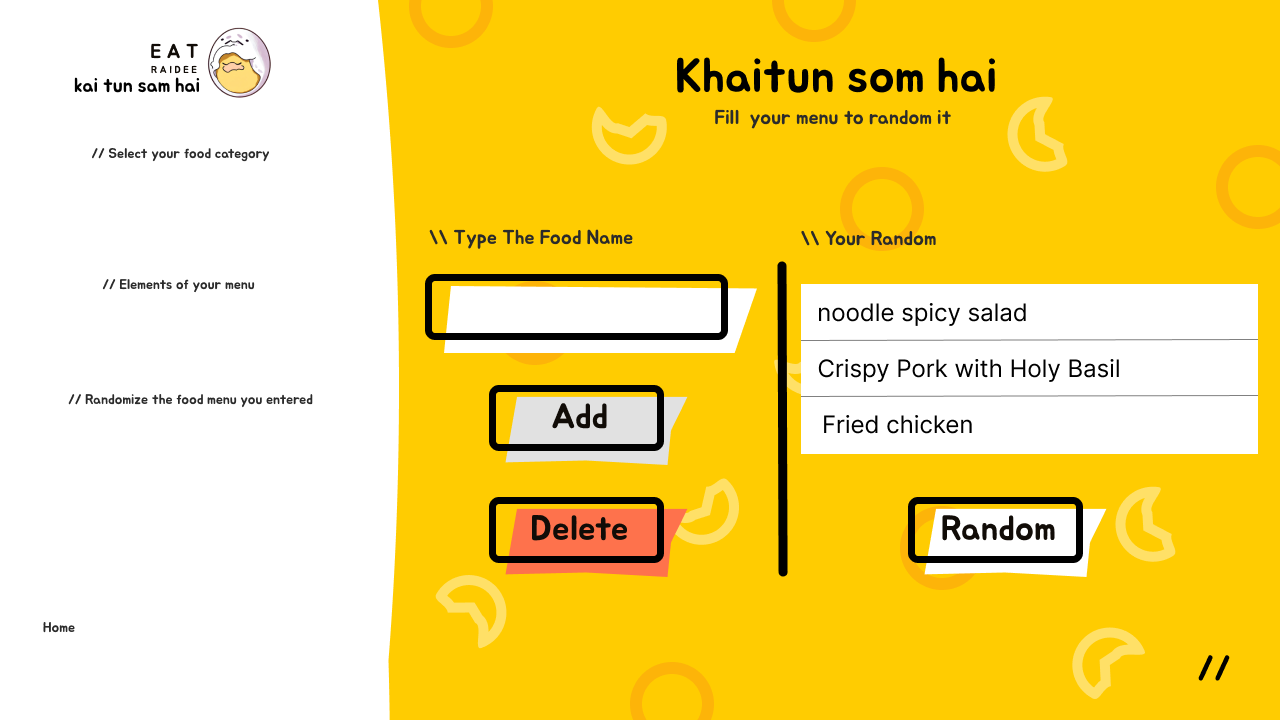
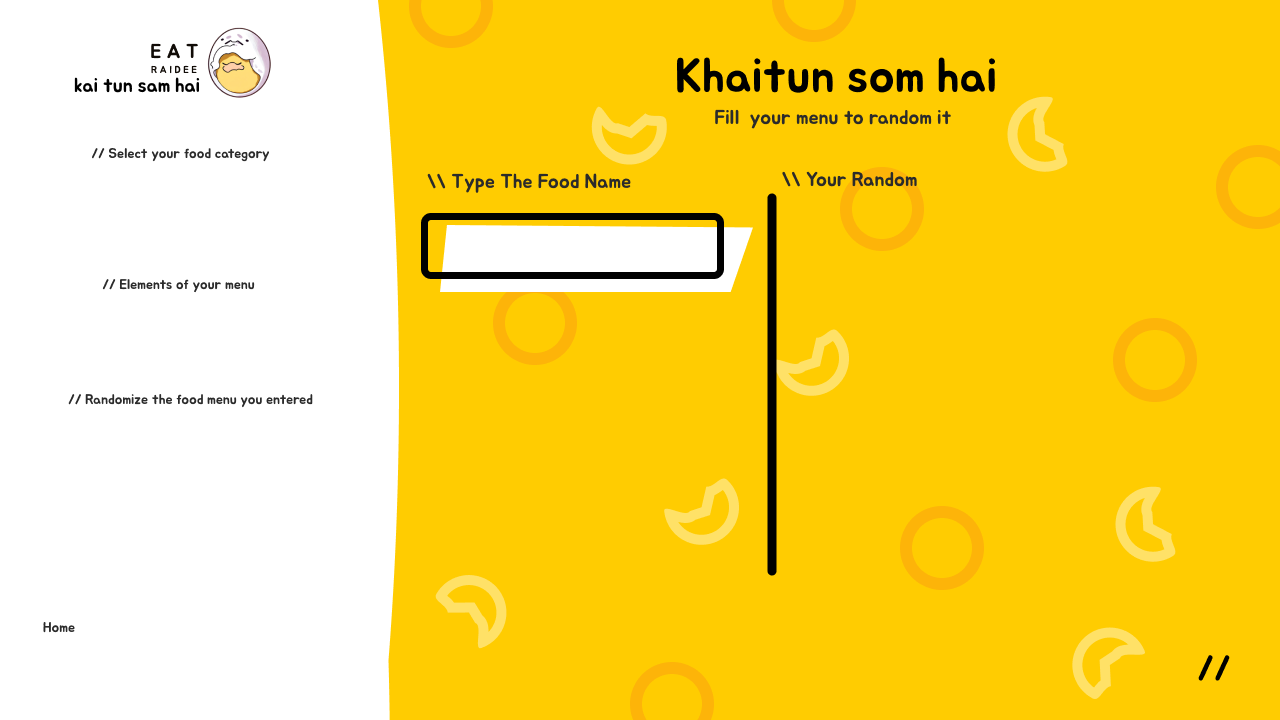
Update 10/12/2566 - MainSomHai       : fix ux ui a litle bit - SelectTypeFrame  :  add slect another elements

diff --git a/src/main/java/com/mycompany/project/MainSomHai.java b/src/main/java/com/mycompany/project/MainSomHai.java
@@ -33,6 +33,7 @@ public class MainSomHai extends javax.swing.JFrame {
         btnTunSom = new javax.swing.JButton();
         btnTunSafe = new javax.swing.JButton();
         btnHome = new javax.swing.JButton();
+        btnRandom = new javax.swing.JButton();
         jLabel1 = new javax.swing.JLabel();
 
         setDefaultCloseOperation(javax.swing.WindowConstants.EXIT_ON_CLOSE);
@@ -41,7 +42,7 @@ public class MainSomHai extends javax.swing.JFrame {
 
         txtFoodname.setBackground(new java.awt.Color(100, 100, 100));
         txtFoodname.setBorder(null);
-        getContentPane().add(txtFoodname, new org.netbeans.lib.awtextra.AbsoluteConstraints(452, 289, 280, 50));
+        getContentPane().add(txtFoodname, new org.netbeans.lib.awtextra.AbsoluteConstraints(450, 230, 260, 50));
 
         btnAdd.setIcon(new javax.swing.ImageIcon(getClass().getResource("/btnAdd_default.png"))); // NOI18N
         btnAdd.setBorder(null);
@@ -56,7 +57,7 @@ public class MainSomHai extends javax.swing.JFrame {
                 btnAddMouseExited(evt);
             }
         });
-        getContentPane().add(btnAdd, new org.netbeans.lib.awtextra.AbsoluteConstraints(490, 385, -1, -1));
+        getContentPane().add(btnAdd, new org.netbeans.lib.awtextra.AbsoluteConstraints(490, 310, -1, -1));
 
         btnDelete.setIcon(new javax.swing.ImageIcon(getClass().getResource("/btnDelete_default.png"))); // NOI18N
         btnDelete.setBorder(null);
@@ -71,7 +72,7 @@ public class MainSomHai extends javax.swing.JFrame {
                 btnDeleteMouseExited(evt);
             }
         });
-        getContentPane().add(btnDelete, new org.netbeans.lib.awtextra.AbsoluteConstraints(490, 495, -1, -1));
+        getContentPane().add(btnDelete, new org.netbeans.lib.awtextra.AbsoluteConstraints(490, 410, -1, -1));
 
         btnTunHue.setIcon(new javax.swing.ImageIcon(getClass().getResource("/btnTunHew_default.png"))); // NOI18N
         btnTunHue.setBorder(null);
@@ -160,6 +161,23 @@ public class MainSomHai extends javax.swing.JFrame {
             }
         });
         getContentPane().add(btnHome, new org.netbeans.lib.awtextra.AbsoluteConstraints(20, 640, 80, 60));
+
+        btnRandom.setIcon(new javax.swing.ImageIcon(getClass().getResource("/btnRandom_default.png"))); // NOI18N
+        btnRandom.setBorder(null);
+        btnRandom.setBorderPainted(false);
+        btnRandom.setContentAreaFilled(false);
+        btnRandom.setMaximumSize(new java.awt.Dimension(199, 80));
+        btnRandom.setMinimumSize(new java.awt.Dimension(199, 80));
+        btnRandom.setPreferredSize(new java.awt.Dimension(199, 80));
+        btnRandom.addMouseListener(new java.awt.event.MouseAdapter() {
+            public void mouseEntered(java.awt.event.MouseEvent evt) {
+                btnRandomMouseEntered(evt);
+            }
+            public void mouseExited(java.awt.event.MouseEvent evt) {
+                btnRandomMouseExited(evt);
+            }
+        });
+        getContentPane().add(btnRandom, new org.netbeans.lib.awtextra.AbsoluteConstraints(490, 510, -1, -1));
 
         jLabel1.setIcon(new javax.swing.ImageIcon(getClass().getResource("/mainTunSom.png"))); // NOI18N
         getContentPane().add(jLabel1, new org.netbeans.lib.awtextra.AbsoluteConstraints(0, 0, -1, -1));
@@ -332,6 +350,26 @@ public class MainSomHai extends javax.swing.JFrame {
             System.err.println(e);
         }
     }//GEN-LAST:event_btnHomeMouseExited
+
+    private void btnRandomMouseEntered(java.awt.event.MouseEvent evt) {//GEN-FIRST:event_btnRandomMouseEntered
+        try{
+            String filePath = "/btnRandom_hover.png";
+            imgIcon = new ImageIcon(getClass().getResource(filePath));
+            btnRandom.setIcon(imgIcon);
+        }catch(Exception e){
+            System.err.println(e);
+        }
+    }//GEN-LAST:event_btnRandomMouseEntered
+
+    private void btnRandomMouseExited(java.awt.event.MouseEvent evt) {//GEN-FIRST:event_btnRandomMouseExited
+         try{
+            String filePath = "/btnRandom_default.png";
+            imgIcon = new ImageIcon(getClass().getResource(filePath));
+            btnRandom.setIcon(imgIcon);
+        }catch(Exception e){
+            System.err.println(e);
+        }
+    }//GEN-LAST:event_btnRandomMouseExited
     
     private void showTextFeild(){
         txtFoodname.setBackground(new java.awt.Color(0,0,0,0));
@@ -348,6 +386,7 @@ public class MainSomHai extends javax.swing.JFrame {
     private javax.swing.JButton btnChefTun;
     private javax.swing.JButton btnDelete;
     private javax.swing.JButton btnHome;
+    private javax.swing.JButton btnRandom;
     private javax.swing.JButton btnTunHue;
     private javax.swing.JButton btnTunSafe;
     private javax.swing.JButton btnTunSom;

diff --git a/src/main/java/com/mycompany/project/SelectTypeFrame.java b/src/main/java/com/mycompany/project/SelectTypeFrame.java
@@ -166,6 +166,7 @@ public class SelectTypeFrame extends javax.swing.JFrame {
         btnTunSom = new javax.swing.JButton();
         btnHome = new javax.swing.JButton();
         ShowMenu = new javax.swing.JLabel();
+        btnSelectAnotherElements = new javax.swing.JButton();
         labelBgMain = new javax.swing.JLabel();
 
         setDefaultCloseOperation(javax.swing.WindowConstants.EXIT_ON_CLOSE);
@@ -328,6 +329,23 @@ public class SelectTypeFrame extends javax.swing.JFrame {
 
         ShowMenu.setIcon(new javax.swing.ImageIcon(getClass().getResource("/picmellow.png"))); // NOI18N
         getContentPane().add(ShowMenu, new org.netbeans.lib.awtextra.AbsoluteConstraints(672, 210, -1, -1));
+
+        btnSelectAnotherElements.setIcon(new javax.swing.ImageIcon(getClass().getResource("/btnSelectAnotherElements_default.png"))); // NOI18N
+        btnSelectAnotherElements.setBorder(null);
+        btnSelectAnotherElements.setBorderPainted(false);
+        btnSelectAnotherElements.setContentAreaFilled(false);
+        btnSelectAnotherElements.addMouseListener(new java.awt.event.MouseAdapter() {
+            public void mouseClicked(java.awt.event.MouseEvent evt) {
+                btnSelectAnotherElementsMouseClicked(evt);
+            }
+            public void mouseEntered(java.awt.event.MouseEvent evt) {
+                btnSelectAnotherElementsMouseEntered(evt);
+            }
+            public void mouseExited(java.awt.event.MouseEvent evt) {
+                btnSelectAnotherElementsMouseExited(evt);
+            }
+        });
+        getContentPane().add(btnSelectAnotherElements, new org.netbeans.lib.awtextra.AbsoluteConstraints(670, 580, -1, -1));
 
         labelBgMain.setIcon(new javax.swing.ImageIcon(getClass().getResource("/SelectTypeFrame.png"))); // NOI18N
         getContentPane().add(labelBgMain, new org.netbeans.lib.awtextra.AbsoluteConstraints(0, 0, -1, -1));
@@ -561,12 +579,41 @@ public class SelectTypeFrame extends javax.swing.JFrame {
         }
     }//GEN-LAST:event_btnsSkipActionPerformed
 
+    private void btnSelectAnotherElementsMouseEntered(java.awt.event.MouseEvent evt) {//GEN-FIRST:event_btnSelectAnotherElementsMouseEntered
+        try{
+            String filePath = "/btnSelectAnotherElements_hover.png";
+            imgIcon = new ImageIcon(getClass().getResource(filePath));
+            btnSelectAnotherElements.setIcon(imgIcon);
+        }catch(Exception e){
+            System.err.println(e);
+        }
+    }//GEN-LAST:event_btnSelectAnotherElementsMouseEntered
+
+    private void btnSelectAnotherElementsMouseExited(java.awt.event.MouseEvent evt) {//GEN-FIRST:event_btnSelectAnotherElementsMouseExited
+        try{
+            String filePath = "/btnSelectAnotherElements_default.png";
+            imgIcon = new ImageIcon(getClass().getResource(filePath));
+            btnSelectAnotherElements.setIcon(imgIcon);
+        }catch(Exception e){
+            System.err.println(e);
+        }
+    }//GEN-LAST:event_btnSelectAnotherElementsMouseExited
+
+    private void btnSelectAnotherElementsMouseClicked(java.awt.event.MouseEvent evt) {//GEN-FIRST:event_btnSelectAnotherElementsMouseClicked
+        MainDaiWelaa mainDaiWelaa = new MainDaiWelaa();
+        mainDaiWelaa.setVisible(true);
+        mainDaiWelaa.pack();
+        mainDaiWelaa.setLocationRelativeTo(null);
+        this.dispose();
+    }//GEN-LAST:event_btnSelectAnotherElementsMouseClicked
+
     // Variables declaration - do not modify//GEN-BEGIN:variables
     private javax.swing.JLabel ShowMenu;
     private javax.swing.JButton btnBack;
     private javax.swing.JButton btnChefTun;
     private javax.swing.JButton btnHome;
     private javax.swing.JButton btnSelect;
+    private javax.swing.JButton btnSelectAnotherElements;
     private javax.swing.JButton btnTunHue;
     private javax.swing.JButton btnTunSafe;
     private javax.swing.JButton btnTunSom;
